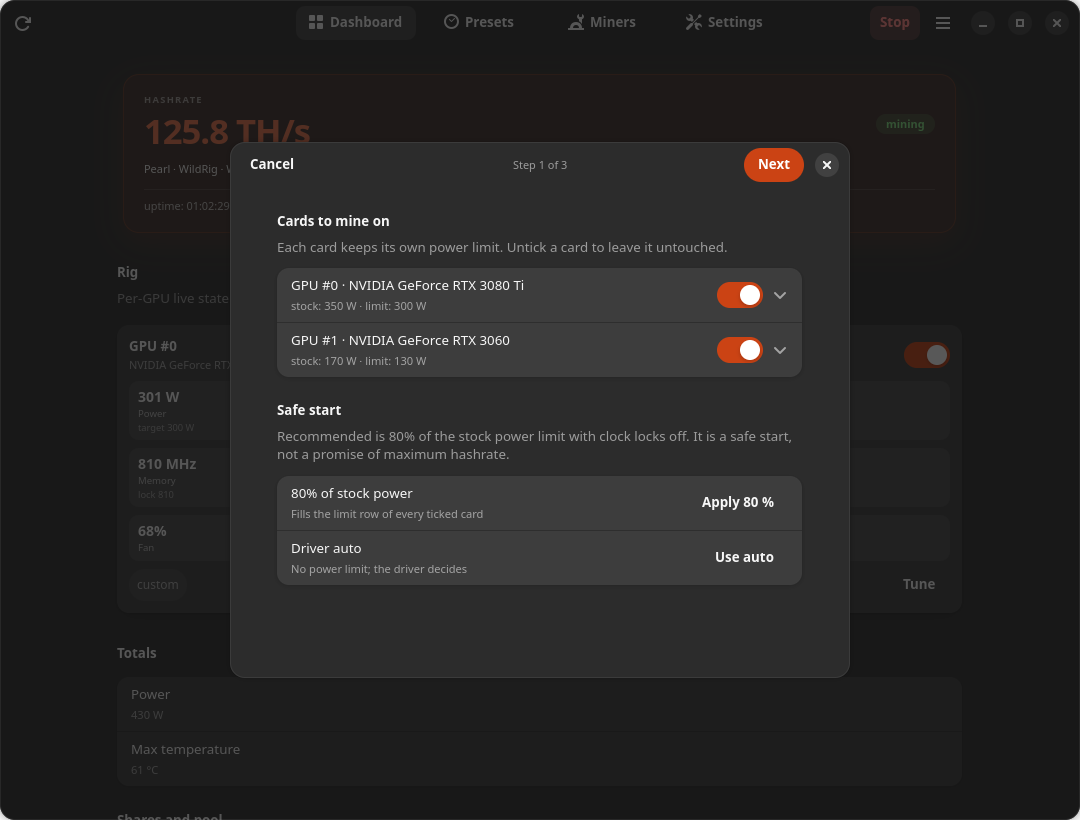
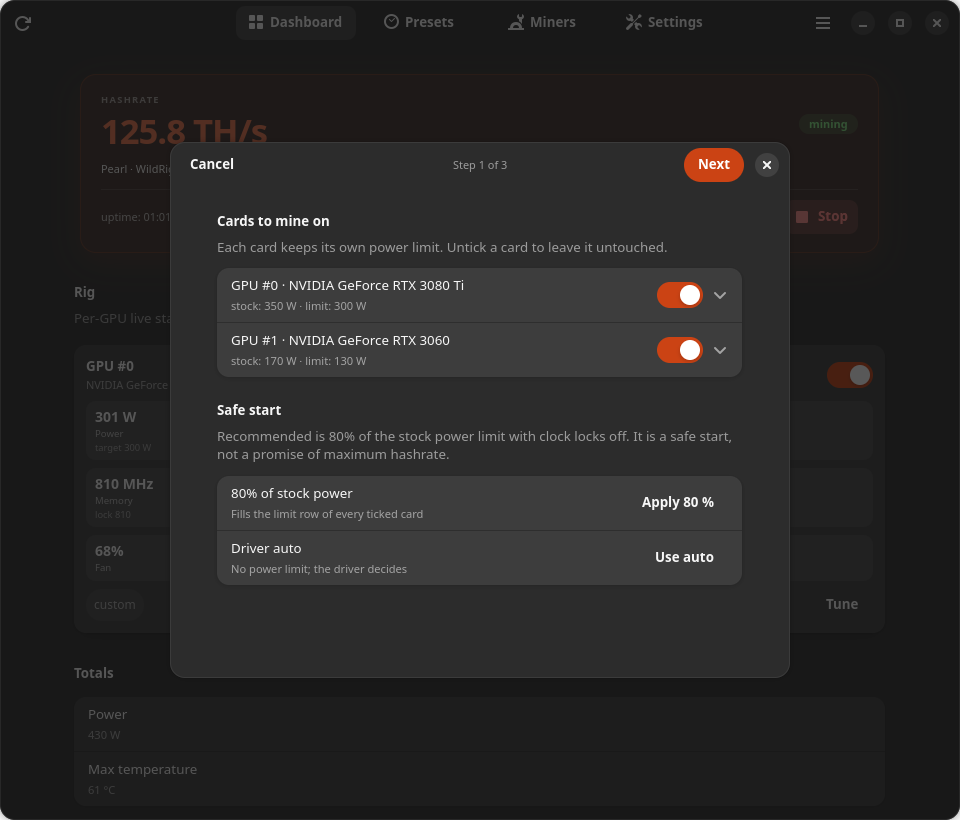
feat(ui): move the start/stop action into the dashboard hero
The header now carries navigation and window chrome only (refresh, view
switcher, menu). Start/Stop was the widest header item, so keeping it out
of the bar lets the one-line AdwViewSwitcherTitle survive down to about
880 px in Russian and the default window shrinks back to 960x760.

The primary action lives in the hero footer, right aligned with the uptime
line: a pill with a play/stop icon, suggested while stopped and destructive
while mining, with an explicit accessible name because the button wraps an
icon and a label. Quick setup becomes a flat secondary button so the card
keeps a single bright action.

diff --git a/crates/cli/src/gui.rs b/crates/cli/src/gui.rs
@@ -254,6 +254,7 @@ struct App {
     dirty: Cell<bool>,
     action_button: gtk::Button,
     action_label: gtk::Label,
+    action_icon: gtk::Image,
     quick_button: gtk::Button,
     hero_hashrate: gtk::Label,
     hero_line: gtk::Label,
@@ -316,6 +317,11 @@ fn install_css() {
             margin-bottom: 2px;
         }
         .trommel-hero-meta { opacity: 0.72; }
+        .trommel-hero-action {
+            font-weight: 600;
+            min-height: 38px;
+            padding: 2px 22px;
+        }
         .trommel-gpu-title { font-weight: 700; }
         .trommel-gpu-stat {
             background-color: alpha(@card_fg_color, 0.06);
@@ -474,10 +480,10 @@ fn build_ui(app: &adw::Application) {
     let window = adw::ApplicationWindow::builder()
         .application(app)
         .title("Trommel")
-        // Wide enough for the header view switcher (icon + label per page) in
-        // both shipped locales at the default size; narrower windows fall back
-        // to the switcher bar. Russian labels are the wider case.
-        .default_width(1080)
+        // The header carries navigation only (refresh, switcher, menu), so the
+        // one-line view switcher fits from about 880 px in Russian, the wider
+        // locale. 960 keeps a margin for longer translated page names.
+        .default_width(960)
         .default_height(760)
         .build();
     window.set_size_request(400, 420);
@@ -540,13 +546,6 @@ fn build_ui(app: &adw::Application) {
         .build();
     header.pack_end(&menu);
 
-    let action_label = gtk::Label::new(Some(&tr("Start", "Запустить")));
-    let action_button = gtk::Button::builder()
-        .css_classes(["suggested-action", "pill"])
-        .child(&action_label)
-        .build();
-    header.pack_end(&action_button);
-
     let banner = adw::Banner::builder()
         .title(tr(
             "You have unsaved changes",
@@ -601,7 +600,7 @@ fn build_ui(app: &adw::Application) {
     hero.set_margin_bottom(12);
     hero.set_margin_start(6);
     hero.set_margin_end(6);
-    let hero_top = gtk::Box::new(gtk::Orientation::Horizontal, 8);
+    let hero_top = gtk::Box::new(gtk::Orientation::Horizontal, 12);
     let hero_left = gtk::Box::new(gtk::Orientation::Vertical, 0);
     hero_left.set_hexpand(true);
     let hero_caption = label(
@@ -630,16 +629,43 @@ fn build_ui(app: &adw::Application) {
     );
     hero_line.set_ellipsize(gtk::pango::EllipsizeMode::End);
     hero_meta.set_ellipsize(gtk::pango::EllipsizeMode::End);
+    // Start/Stop is the action of this page, not of the app chrome: it sits in
+    // the hero footer so the card's brightest control is anchored to its
+    // bottom edge and the header keeps navigation only (refresh, switcher,
+    // menu), which stays single-line at narrower widths.
+    let action_label = gtk::Label::new(Some(&tr("Start", "Запустить")));
+    let action_icon = gtk::Image::from_icon_name("media-playback-start-symbolic");
+    let action_content = gtk::Box::new(gtk::Orientation::Horizontal, 8);
+    action_content.set_halign(gtk::Align::Center);
+    action_content.append(&action_icon);
+    action_content.append(&action_label);
+    let action_button = gtk::Button::builder()
+        .css_classes(["suggested-action", "pill", "trommel-hero-action"])
+        .child(&action_content)
+        .valign(gtk::Align::Center)
+        .build();
+    // The button has a custom child (icon + label), so GTK cannot derive its
+    // accessible name from a plain label property; set it explicitly and keep
+    // it in sync with the visible text.
+    set_action_text(&action_button, &action_label, &tr("Start", "Запустить"));
+    let hero_footer = gtk::Box::new(gtk::Orientation::Horizontal, 12);
+    hero_footer.set_margin_top(2);
+    hero_meta.set_hexpand(true);
+    hero_meta.set_valign(gtk::Align::Center);
+    hero_footer.append(&hero_meta);
+    hero_footer.append(&action_button);
+    // Secondary affordance: the hero already carries the primary Start, and
+    // both paths open the same wizard on an unfinished install.
     let quick_button = gtk::Button::builder()
         .label(tr("Quick setup", "Быстрая настройка"))
-        .css_classes(["suggested-action", "pill"])
+        .css_classes(["flat", "pill"])
         .halign(gtk::Align::Start)
         .build();
     quick_button.set_visible(false);
     hero.append(&hero_top);
     hero.append(&hero_line);
     hero.append(&hero_rule);
-    hero.append(&hero_meta);
+    hero.append(&hero_footer);
     hero.append(&quick_button);
     hero_group.add(&hero);
     dashboard_box.append(&hero_group);
@@ -743,6 +769,7 @@ fn build_ui(app: &adw::Application) {
         dirty: Cell::new(false),
         action_button: action_button.clone(),
         action_label: action_label.clone(),
+        action_icon: action_icon.clone(),
         quick_button: quick_button.clone(),
         hero_hashrate,
         hero_line,
@@ -4300,8 +4327,11 @@ fn handle_event(app: &Rc<App>, event: Ev) {
             app.action_button
                 .set_sensitive(!busy && !start_blocked(app));
             if busy {
-                app.action_label
-                    .set_text(&tr("Waiting for authorization…", "Жду подтверждения…"));
+                set_action_text(
+                    &app.action_button,
+                    &app.action_label,
+                    &tr("Waiting for authorization…", "Жду подтверждения…"),
+                );
             } else {
                 let running = app
                     .status
@@ -4309,14 +4339,18 @@ fn handle_event(app: &Rc<App>, event: Ev) {
                     .as_ref()
                     .map(|status| status.state.running)
                     .unwrap_or(false);
-                app.action_label.set_text(&tr(
-                    if running { "Stop" } else { "Start" },
-                    if running {
-                        "Остановить"
-                    } else {
-                        "Запустить"
-                    },
-                ));
+                set_action_text(
+                    &app.action_button,
+                    &app.action_label,
+                    &tr(
+                        if running { "Stop" } else { "Start" },
+                        if running {
+                            "Остановить"
+                        } else {
+                            "Запустить"
+                        },
+                    ),
+                );
             }
         }
         Ev::Bench(json) => {
@@ -4684,6 +4718,14 @@ fn start_blocked(app: &Rc<App>) -> bool {
     }
 }
 
+/// Keep the hero action's visible text and its accessible name in sync: the
+/// button wraps an icon and a label, so there is no `label` property to derive
+/// the name from.
+fn set_action_text(button: &gtk::Button, label: &gtk::Label, text: &str) {
+    label.set_text(text);
+    button.update_property(&[gtk::accessible::Property::Label(text)]);
+}
+
 fn update_start_sensitivity(app: &Rc<App>, blocked: bool) {
     app.action_button.set_sensitive(!blocked);
     let tooltip = blocked.then(|| {
@@ -4704,7 +4746,12 @@ fn apply_status(app: &Rc<App>, status: Status) {
     } else {
         tr("Start", "Запустить")
     };
-    app.action_label.set_text(&action_text);
+    set_action_text(&app.action_button, &app.action_label, &action_text);
+    app.action_icon.set_icon_name(Some(if running {
+        "media-playback-stop-symbolic"
+    } else {
+        "media-playback-start-symbolic"
+    }));
     app.action_button.set_css_classes(&[if running {
         "destructive-action"
     } else {

diff --git a/scripts/ui_smoke.py b/scripts/ui_smoke.py
@@ -373,15 +373,15 @@ def phase_main(ui: UI) -> None:
                 ui.check(checked, "Cancel restores the GPU switch")
             else:
                 ui.fail("GPU disable did not ask for confirmation")
-        ui.click(stopped, "header Stop")
+        ui.click(stopped, "hero Stop")
         start = ui.wait(lambda: ui.find(frame, "button", "Start"), 15.0, "stopped")
         ui.check(start is not None, "Stop returns to Start")
         if start is not None:
-            ui.click(start, "header Start")
+            ui.click(start, "hero Start")
             stop = ui.wait(lambda: ui.find(frame, "button", "Stop"), 15.0, "started")
             ui.check(stop is not None, "Start returns to Stop")
             if stop is not None:
-                ui.click(stop, "header Stop (final)")
+                ui.click(stop, "hero Stop (final)")
                 ui.wait(lambda: ui.find(frame, "button", "Start"), 15.0, "stopped")
 
     # Pages and a Settings toggle.

diff --git a/docs/design.ru.md b/docs/design.ru.md
@@ -57,7 +57,7 @@ libadwaita пропустить свой stylesheet и ломает отступ
 
 | Параметр | Значение |
 | --- | --- |
-| Окно по умолчанию | 1080 × 760 |
+| Окно по умолчанию | 960 × 760 |
 | Минимальное окно | 400 × 420 |
 | Колонка дашборда | clamp 900 px (карточки расширяются шире текстовой колонки) |
 | Отступы дашборда | 18 px сверху, 24 px снизу, по 12 px с боков |
@@ -126,8 +126,8 @@ libadwaita пропустить свой stylesheet и ломает отступ
   подробностей текст можно выделить и скопировать.
 - Карточка GPU на дашборде не кликабельна: интерактивны только **Настроить** и
   переключатель включения, поэтому hover-эффекта у карточки нет.
-- Кнопка **Запустить** в шапке неактивна, пока все обнаруженные карты выключены;
-  причина видна в замечаниях и подсказке кнопки.
+- Кнопка **Запустить** на дашборде неактивна, пока все обнаруженные карты
+  выключены; причина видна в замечаниях и подсказке кнопки.
 - Кнопка «Запустить» меняет текст на «Запускаю…» и блокируется, пока демон
   работает.
 
@@ -140,7 +140,10 @@ libadwaita пропустить свой stylesheet и ломает отступ
    страницы занимают место заголовка, пока окно достаточно широкое для иконок и
    подписей. Когда не хватает ширины, возвращается заголовок, а внизу
    показывается `AdwViewSwitcherBar` — переключатель не обрезается и не
-   дублируется. Окно по умолчанию достаточно широкое для варианта в шапке.
+   дублируется. В шапке только навигация и хром окна (обновить, переключатель,
+   меню): главное действие «Запустить/Остановить» живёт на дашборде, поэтому
+   однострочный переключатель держится примерно до 880 px, а окно по умолчанию
+   960×760 оставляет запас под более длинные переводы.
 3. **Мастера — единственные экраны с «Назад/Далее».** Они модальные и на каждом
    шаге держат «Отмена» в шапке.
 4. **Страница — это место, куда возвращаются, а не шаг сценария.** Углубление
@@ -155,7 +158,7 @@ libadwaita пропустить свой stylesheet и ломает отступ
 
 | Экран | Тип | Открывается из | Назначение |
 | --- | --- | --- | --- |
-| Главное окно | `AdwApplicationWindow` | запуск | Шапка (переключатель, обновить, старт/стоп, меню), четыре страницы, баннеры |
+| Главное окно | `AdwApplicationWindow` | запуск | Шапка (переключатель, обновить, меню), четыре страницы, баннеры |
 | Дашборд | страница | переключатель страниц | Hero-хешрейт, карточки GPU, итоги, шары, пул, предупреждения |
 | Пресеты | страница | переключатель страниц | Список пресетов; строка открывает редактор |
 | Майнеры | страница | переключатель страниц | Каталог, установленные версии, установка, бенчмарк |
@@ -177,7 +180,10 @@ libadwaita пропустить свой stylesheet и ломает отступ
   «пресет · майнер · версия · итоговая комиссия», разделитель и метаданные с
   аптаймом, перезапусками и источником данных майнера. Карточка с акцентным
   фоном и мягкой тенью; значение окрашено акцентом, только когда хешрейт
-  известен.
+  известен. Карточку закрывает главная кнопка **Запустить/Остановить** (иконка
+  play/stop, пилюля; suggested в покое и destructive при майнинге) — внизу
+  справа, в одной строке с метаданными: самая яркая кнопка приложения стоит на
+  той карточке, которой управляет, а не висит в шапке.
 - Карточки GPU: название и индекс, переключатель включения карты в активный
   профиль, шесть «пузырей» со значениями (питание, ядро, память, температура,
   вентилятор, загрузка; цель/лок — мелкая подсказка, краснеет при расхождении с
@@ -192,7 +198,9 @@ libadwaita пропустить свой stylesheet и ломает отступ
   Никаких одиночных прочерков.
 - Предупреждения — одна строка с объединённым текстом и значком warning; тот же
   список есть в статусе.
-- Кнопка быстрой настройки видна, пока нет кошелька и установленного майнера.
+- Вторая кнопка **Быстрая настройка** (плоская пилюля под футером) видна, пока
+  нет кошелька и установленного майнера, и открывает тот же мастер, что и
+  «Запустить» на незавершённой настройке.
 
 ### Пресеты
 

diff --git a/docs/design.md b/docs/design.md
@@ -55,7 +55,7 @@ overrides it for screenshots and tests.
 
 | Constant | Value |
 | --- | --- |
-| Default window | 1080 × 760 |
+| Default window | 960 × 760 |
 | Minimum window | 400 × 420 |
 | Dashboard content clamp | 900 px (cards widen beyond the reading column) |
 | Dashboard margins | 18 px top, 24 px bottom, 12 px sides |
@@ -125,8 +125,8 @@ Every coloured value has a word next to it (“installed”, “not installed”
   window keeps the full text selectable and copyable.
 - The dashboard GPU card is not clickable: only **Tune** and its include switch
   are interactive, so the card has no hover treatment.
-- Header **Start** is disabled while every detected GPU is off; the warnings row
-  and the button tooltip explain it.
+- Dashboard **Start** is disabled while every detected GPU is off; the
+  warnings row and the button tooltip explain it.
 - No spinners for work that completes in under a frame; the Start button changes
   its label to “Starting…” and disables while the daemon works.
 
@@ -139,8 +139,10 @@ Every coloured value has a word next to it (“installed”, “not installed”
    the four pages are the title widget while the window is wide enough to show
    their icons and labels. When it is not, the title returns and the
    `AdwViewSwitcherBar` reveals itself at the bottom, so the switcher is never
-   clipped and never duplicated. The default window is wide enough for the
-   header form.
+   clipped and never duplicated. The header bar carries navigation and window
+   chrome only (refresh, switcher, menu): the primary Start/Stop action lives on
+   the dashboard, which keeps the one-line switcher usable down to roughly
+   880 px, and the 960×760 default leaves a margin for longer translations.
 3. **Wizards are the only Back/Next surfaces.** They are modal dialogs and keep
    Cancel/close in the header on every step.
 4. **A page is a place you return to, not a step in a flow.** Drilling down
@@ -155,7 +157,7 @@ Every coloured value has a word next to it (“installed”, “not installed”
 
 | Surface | Kind | Opened from | Purpose |
 | --- | --- | --- | --- |
-| Main window | `AdwApplicationWindow` | app start | Header (view switcher, refresh, Start/Stop, menu), four pages, banners |
+| Main window | `AdwApplicationWindow` | app start | Header (view switcher, refresh, menu), four pages, banners |
 | Dashboard | page | view switcher | Hero hashrate, GPU cards, totals, shares, pool, warnings |
 | Presets | page | view switcher | Preset list; rows open the editor |
 | Miners | page | view switcher | Catalogue, installed versions, install dialog, benchmark |
@@ -177,6 +179,10 @@ Every coloured value has a word next to it (“installed”, “not installed”
   miner · version · total fee, a separator, and a metadata line with uptime,
   restarts and the miner data source. The card is accent-tinted with a soft
   shadow; the value uses the accent colour only while a hashrate is known.
+  The card closes with the primary **Start/Stop** button (play/stop icon, pill,
+  suggested while stopped and destructive while mining) in its footer, right
+  aligned with the metadata line: the brightest control of the app is anchored
+  to the card it acts on instead of floating in the header.
 - GPU cards: title (name + index), a switch that includes the card in the
   active profile, six value bubbles (power, core, memory, temperature, fan,
   load; the configured target/lock is a small hint and turns hot when the live
@@ -191,7 +197,9 @@ Every coloured value has a word next to it (“installed”, “not installed”
   as placeholders.
 - Warnings are one row with the joined warning text and a warning badge; the
   same list is in the status document.
-- The Quick setup button appears until a wallet and an installed miner exist.
+- The secondary **Quick setup** button (flat pill, below the footer) appears
+  until a wallet and an installed miner exist and opens the same wizard as
+  Start does on an unfinished setup.
 
 ### Presets
 

diff --git a/docs/user-guide.ru.md b/docs/user-guide.ru.md
@@ -65,10 +65,11 @@ English: [user-guide.md](user-guide.md).
   баланс пула, настроенный адрес пула с его комиссией и предупреждения.
 - В остановленном состоянии хешрейт и баланс показывают числовые заглушки, а
   строка пула всё равно называет настроенный endpoint.
-- Кнопка **Запустить** в шапке сначала применяет черновик. Если нет кошелька или
-  майнера, она открывает быструю настройку, а не выдаёт ошибку в тосте. Пока все
-  обнаруженные карты выключены, кнопка неактивна, а строка замечаний объясняет
-  почему.
+- Кнопка **Запустить** в hero-карточке дашборда сначала применяет черновик.
+  Если нет кошелька или майнера, она открывает быструю настройку, а не выдаёт
+  ошибку в тосте. Пока все обнаруженные карты выключены, кнопка неактивна, а
+  строка замечаний объясняет почему. Во время майнинга та же кнопка называется
+  **Остановить**.
 - Ошибки действий показывают кнопку **Подробнее**: полный текст можно выделить и
   скопировать, а не ловить обрезанный тост.
 

diff --git a/docs/components.md b/docs/components.md
@@ -414,7 +414,7 @@ executes commands. It never blocks the GTK main loop.
 
 | Function | Surface |
 | --- | --- |
-| `build_ui` | Window, header view switcher, four pages, banners, `AdwDialog` host |
+| `build_ui` | Window, header view switcher, dashboard hero action, four pages, banners, `AdwDialog` host |
 | dashboard block in `build_ui` | Hero card, GPU `AdwWrapBox`, totals, shares, pool, warnings |
 | `build_presets_page` / `refresh_preset_list` | Preset list; rows open the editor |
 | `build_miners_page` / `refresh_miners` | Miner catalogue, install state, benchmark button |
@@ -429,8 +429,10 @@ executes commands. It never blocks the GTK main loop.
 
 Rules that are easy to break:
 
-- Header **Start** applies the draft first (`Cmd::ApplyStart`), then starts.
-  Starting with the daemon's old config silently ignored GPU edits.
+- The dashboard hero **Start** applies the draft first (`Cmd::ApplyStart`),
+  then starts. Starting with the daemon's old config silently ignored GPU edits;
+  the button lives in the hero card, not in the header, so the header switcher
+  stays single-line at narrower widths.
 - A dirty draft survives `Refresh`; only an explicit apply clears it.
 - Toggling a GPU or editing an appearance/simple-mode switch updates the draft
   immediately, and **Cancel** in the restart/stop alert must undo it.

diff --git a/CHANGELOG.md b/CHANGELOG.md
@@ -19,9 +19,14 @@ Changelog; versions use SemVer.
   `AdwViewSwitcherTitle`, so the switcher sits next to the window actions
   instead of in a separate bar at the bottom. When the window is too narrow for
   labels, libadwaita swaps the switcher back to the title and reveals the
-  `AdwViewSwitcherBar` — one navigation surface at a time. The default window
-  grew to 1080 × 760 so the header form fits at the default size, and the GPU
-  cards now share the row (`AdwWrapBox`, fill) instead of hugging the left edge.
+  `AdwViewSwitcherBar` — one navigation surface at a time. The GPU cards now
+  share the row (`AdwWrapBox`, fill) instead of hugging the left edge.
+- **Start/Stop moved from the header into the dashboard hero.** The header now
+  holds navigation and window chrome only (refresh, switcher, menu), so the
+  one-line switcher fits down to roughly 880 px and the default window shrank
+  back to 960 × 760. The primary action sits in the hero footer with a
+  play/stop icon, right aligned with the uptime line, and keeps its
+  suggested/destructive colouring.
 - **Modal windows became `AdwDialog`s.** The preset editor, miner install, GPU
   tuning, quick setup and error details are presented inside the main window.
   They inherit its style and use libadwaita's spring presentation (the same

diff --git a/docs/user-guide.md b/docs/user-guide.md
@@ -65,10 +65,10 @@ the error is shown.
   pool balance, the configured pool endpoint with its fee, and warnings.
 - When the miner is stopped, hashrate and balance show numeric placeholders and
   the pool row still names the configured endpoint.
-- The header **Start** applies your edited draft before starting. If the wallet
-  or miner is missing, it opens Quick setup instead of failing with a toast. It
-  is disabled while every detected GPU is switched off; the warning row explains
-  why.
+- **Start** in the dashboard hero card applies your edited draft before
+  starting. If the wallet or miner is missing, it opens Quick setup instead of
+  failing with a toast. It is disabled while every detected GPU is switched off;
+  the warning row explains why. While mining, the same button reads **Stop**.
 - Action errors show a **Details** button. The dialog keeps the full message
   selectable and offers **Copy**, so a long daemon error does not disappear in a
   truncated toast.
